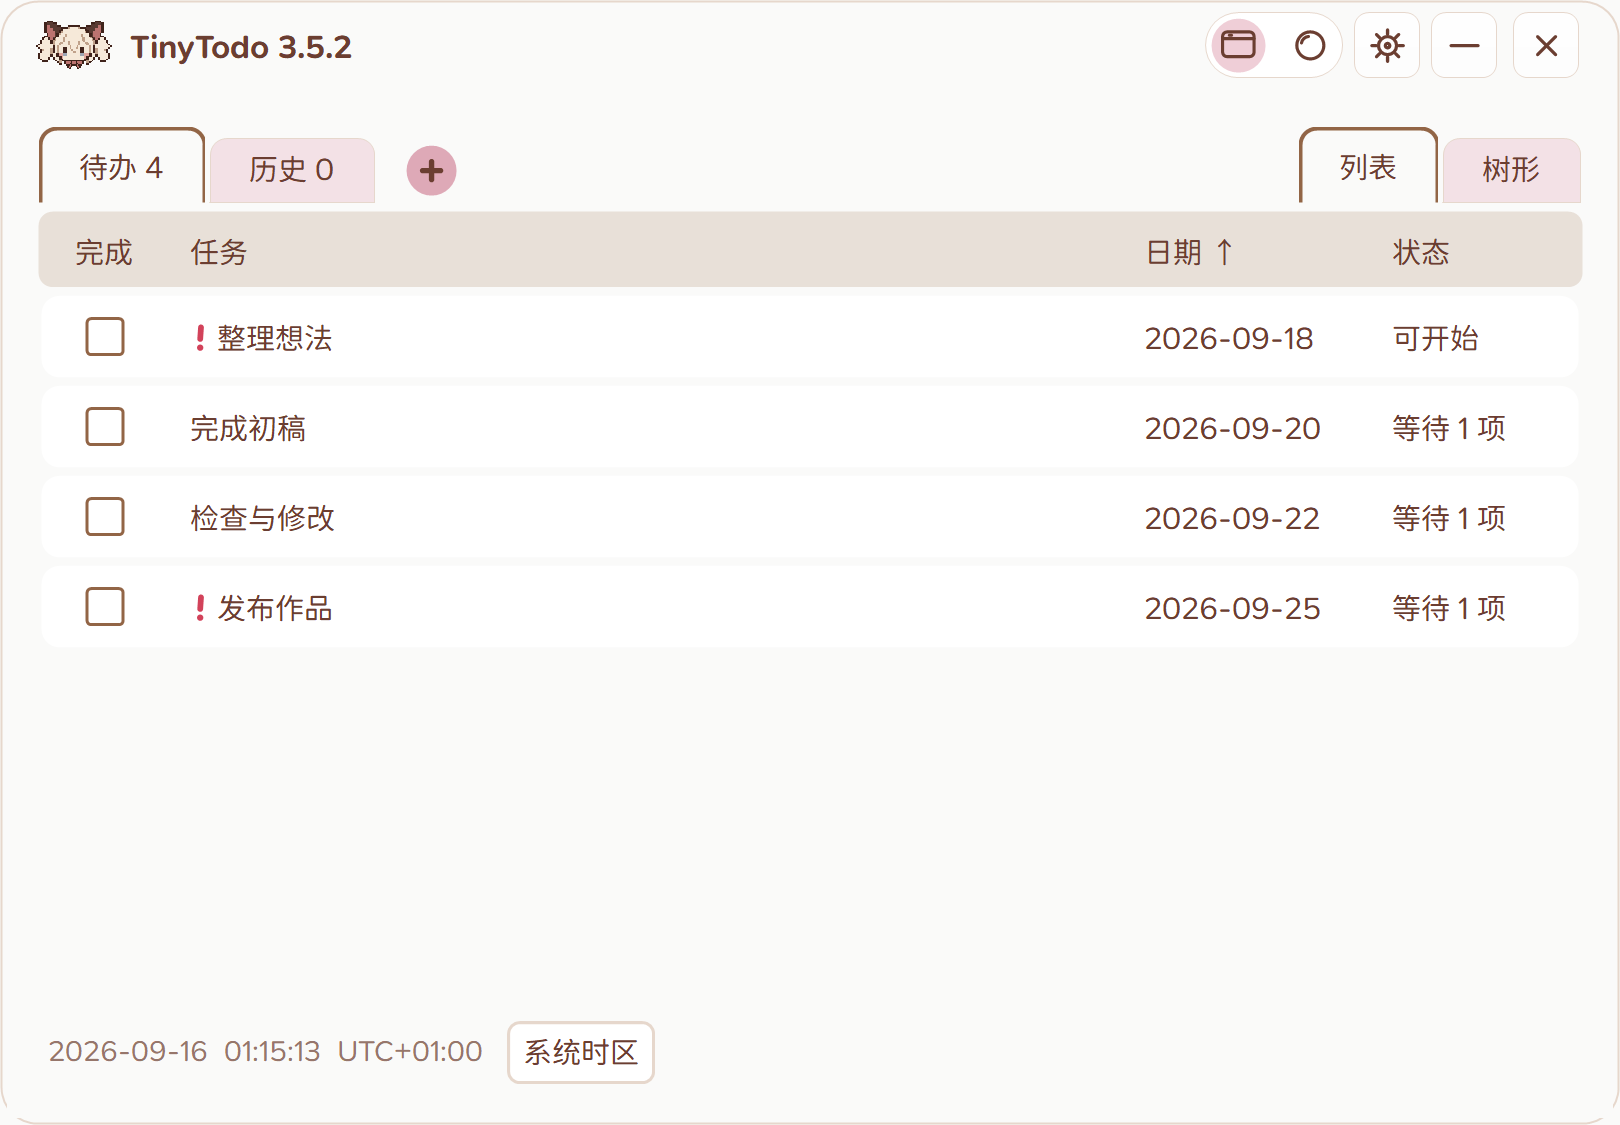
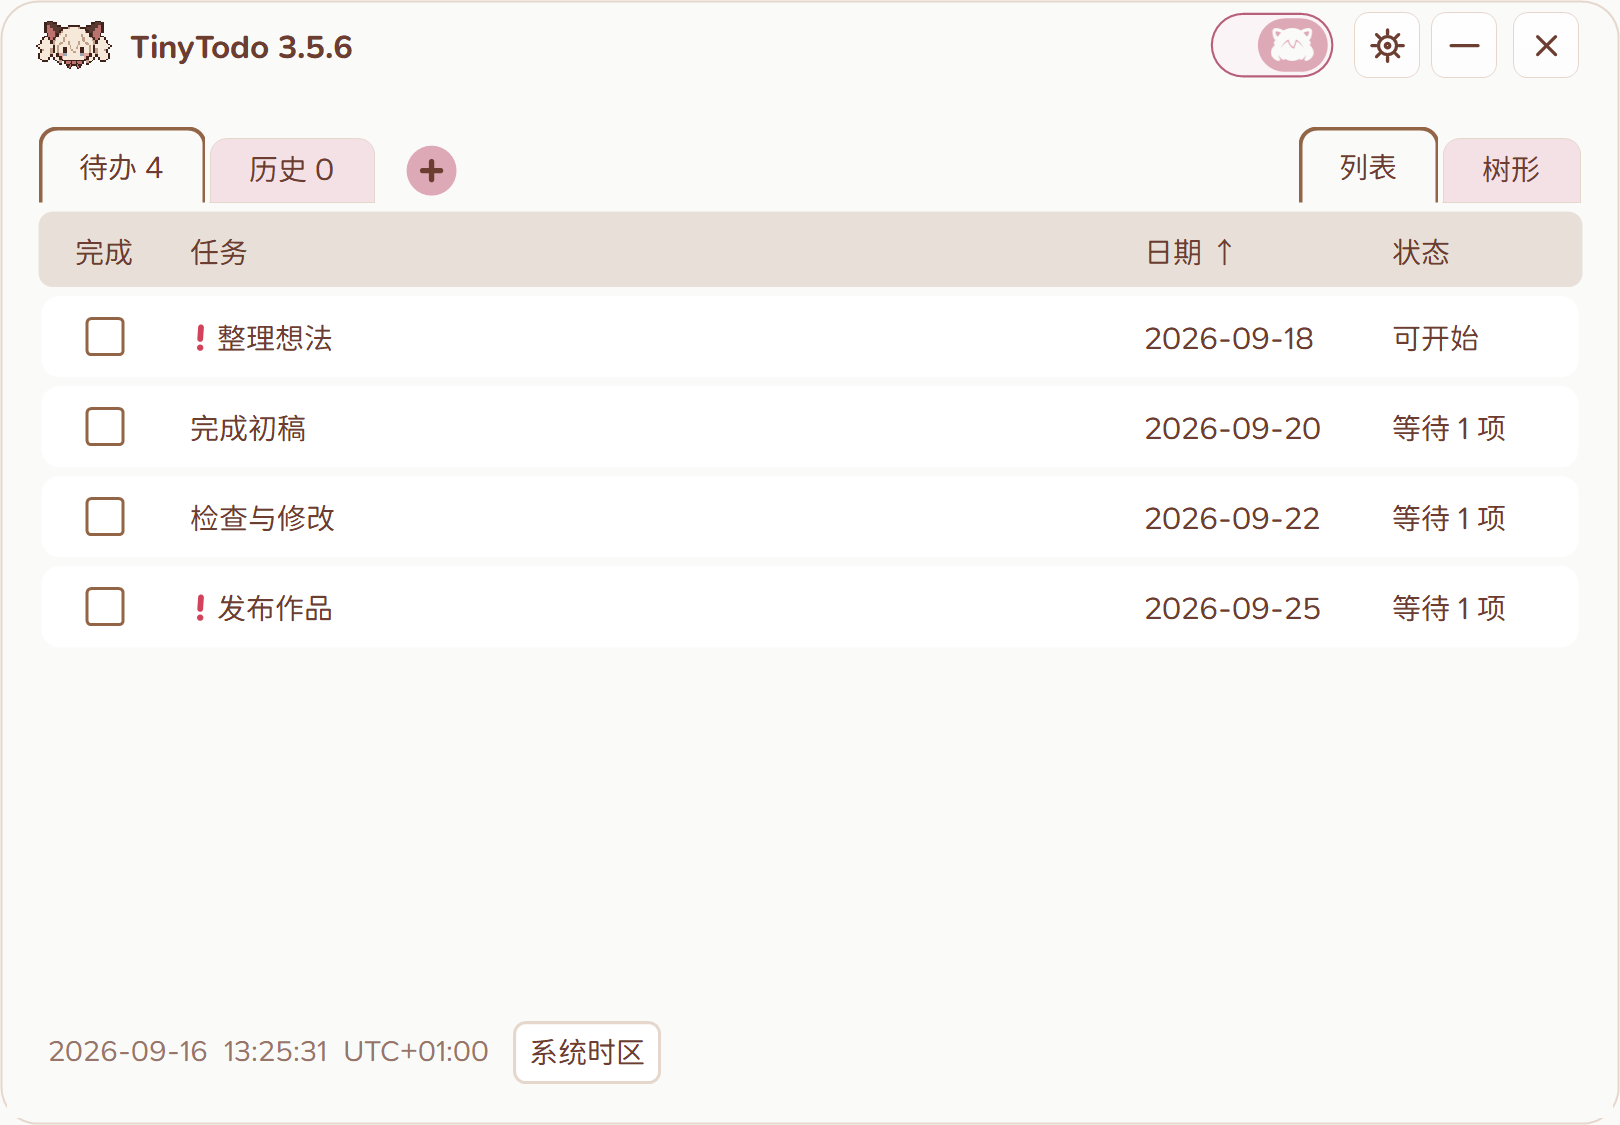
Refine animated cat toggle and release 3.5.6

Changed region(s): [[0.1235, 0.9022, 0.4321, 0.9644], [0.7407, 0.0, 0.8333, 0.0933], [0.1852, 0.0311, 0.216, 0.0622]]

diff --git a/src/Widgets.cs b/src/Widgets.cs
@@ -362,8 +362,59 @@ namespace TinyTodo
 {
     internal sealed class FloatingSwitch : Control
     {
-        internal bool IsFloating; internal Action<bool> Changed; private bool pressed;
-        internal FloatingSwitch() { DoubleBuffered = true; Size = new Size(Ui.U(90), Ui.U(30)); BackColor = Theme.Chrome; TabStop = true; Cursor = Cursors.Hand; }
+        internal Action<bool> Changed;
+        private bool pressed, isFloating;
+        private float progress, transitionFrom;
+        private readonly System.Diagnostics.Stopwatch transitionClock = new System.Diagnostics.Stopwatch();
+        private Timer transitionTimer;
+        private readonly Bitmap catIcon;
+        internal bool IsFloating
+        {
+            get { return isFloating; }
+            set
+            {
+                if (isFloating == value) return;
+                AdvanceTransition(); isFloating = value;
+                if (IsHandleCreated && Visible && Enabled && transitionTimer != null)
+                {
+                    transitionFrom = progress; transitionClock.Restart(); transitionTimer.Start();
+                }
+                else FinishTransition();
+                Invalidate();
+            }
+        }
+        internal FloatingSwitch()
+        {
+            DoubleBuffered = true; Size = new Size(Ui.U(56), Ui.U(30)); BackColor = Theme.Chrome; TabStop = true; Cursor = Cursors.Hand;
+            string iconPath = Theme.Asset("cat-toggle.png");
+            if (System.IO.File.Exists(iconPath))
+                using (var source = Image.FromFile(iconPath)) catIcon = Theme.FitIcon(source, Ui.U(19), InterpolationMode.HighQualityBicubic, 8);
+            transitionTimer = new Timer { Interval = 15 };
+            transitionTimer.Tick += delegate { AdvanceTransition(); Invalidate(); };
+        }
+        private void AdvanceTransition()
+        {
+            if (transitionTimer == null || !transitionTimer.Enabled) return;
+            float elapsed = Math.Min(1F, transitionClock.ElapsedMilliseconds / 180F);
+            float eased = 1F - (float)Math.Pow(1F - elapsed, 3);
+            progress = transitionFrom + ((isFloating ? 1F : 0F) - transitionFrom) * eased;
+            if (elapsed >= 1F) FinishTransition();
+        }
+        private void FinishTransition()
+        {
+            if (transitionTimer != null) transitionTimer.Stop();
+            transitionClock.Reset(); progress = isFloating ? 1F : 0F;
+        }
+        protected override void OnVisibleChanged(EventArgs e)
+        { if (!Visible) FinishTransition(); base.OnVisibleChanged(e); }
+        protected override void OnEnabledChanged(EventArgs e)
+        { if (!Enabled) FinishTransition(); Invalidate(); base.OnEnabledChanged(e); }
+        protected override void Dispose(bool disposing)
+        {
+            if (disposing && transitionTimer != null) { transitionTimer.Dispose(); transitionTimer = null; }
+            if (disposing && catIcon != null) catIcon.Dispose();
+            base.Dispose(disposing);
+        }
         internal void Choose(bool value) { if (value != IsFloating && Changed != null) Changed(value); }
         protected override void OnMouseDown(MouseEventArgs e) { pressed = e.Button == MouseButtons.Left; Invalidate(); base.OnMouseDown(e); }
         protected override void OnMouseUp(MouseEventArgs e) { bool choose = pressed && ClientRectangle.Contains(e.Location); pressed = false; Invalidate(); base.OnMouseUp(e); if (choose) Choose(!IsFloating); }
@@ -374,11 +425,42 @@ namespace TinyTodo
         protected override void OnPaint(PaintEventArgs e)
         {
             var g = e.Graphics; g.Clear(Theme.Canvas); g.SmoothingMode = SmoothingMode.AntiAlias;
-            using (var path = Theme.Rounded(new RectangleF(1, 1, Width - 3, Height - 3), Height / 2F))
-            using (var b = new SolidBrush(Theme.Chrome)) using (var p = new Pen(pressed ? Theme.Rose : Theme.Border, pressed ? Ui.U(2) : 1)) { g.FillPath(b, path); g.DrawPath(p, path); }
-            using (var font = Theme.Font(9F, FontStyle.Regular, "收起猫猫"))
-                TextRenderer.DrawText(g, IsFloating ? "收起猫猫" : "召唤猫猫", font, ClientRectangle, Enabled ? Theme.Ink : Theme.Muted,
-                    TextFormatFlags.HorizontalCenter | TextFormatFlags.VerticalCenter | TextFormatFlags.NoPadding);
+            Color outline = Theme.Mix(Theme.Rose, Theme.Border, progress);
+            Color track = Theme.Mix(Theme.RoseSoft, Theme.Chrome, progress * .22F);
+            Color thumb = Theme.Mix(Theme.AddAction, Theme.HeaderTint, progress);
+            if (!Enabled) { outline = Theme.Border; track = Theme.Chrome; thumb = Theme.Done; }
+            var trackBounds = new RectangleF(Ui.Scale, Ui.Scale, Width - Ui.Scale * 2 - 1, Height - Ui.Scale * 2 - 1);
+            using (var path = Theme.Rounded(trackBounds, Height / 2F))
+            using (var brush = new SolidBrush(track))
+            using (var pen = new Pen(pressed ? Theme.Rose : outline, pressed ? Ui.U(2) : 1F + progress * Ui.Scale * .5F))
+            { g.FillPath(brush, path); g.DrawPath(pen, path); }
+            // Inset the unchanged track uniformly so both capsule ends share their arc centers.
+            float inset = Ui.Scale * 2F, knobWidth = Ui.U(31);
+            float knobHeight = trackBounds.Height - inset * 2F;
+            float left = trackBounds.Left + inset + (trackBounds.Width - knobWidth - inset * 2F) * progress;
+            var knob = new RectangleF(left, trackBounds.Top + inset, knobWidth, knobHeight);
+            using (var path = Theme.Rounded(knob, knob.Height / 2F))
+            using (var brush = new SolidBrush(thumb)) g.FillPath(brush, path);
+            float icon = Ui.U(19);
+            DrawCatIcon(g, new RectangleF(knob.X + (knob.Width - icon) / 2F, knob.Y + (knob.Height - icon) / 2F, icon, icon));
+        }
+        private void DrawCatIcon(Graphics g, RectangleF bounds)
+        {
+            if (catIcon == null) return;
+            // Keep the supplied alpha silhouette; blend its brown into the canvas color when active.
+            using (var attributes = new System.Drawing.Imaging.ImageAttributes())
+            {
+                var matrix = new System.Drawing.Imaging.ColorMatrix();
+                float active = Enabled ? progress : 0F;
+                matrix.Matrix00 = matrix.Matrix11 = matrix.Matrix22 = 1F - active;
+                matrix.Matrix40 = Theme.Canvas.R / 255F * active;
+                matrix.Matrix41 = Theme.Canvas.G / 255F * active;
+                matrix.Matrix42 = Theme.Canvas.B / 255F * active;
+                matrix.Matrix33 = Enabled ? .64F + progress * .36F : .32F;
+                attributes.SetColorMatrix(matrix);
+                var target = new PointF[] { new PointF(bounds.Left, bounds.Top), new PointF(bounds.Right, bounds.Top), new PointF(bounds.Left, bounds.Bottom) };
+                g.DrawImage(catIcon, target, new RectangleF(0, 0, catIcon.Width, catIcon.Height), GraphicsUnit.Pixel, attributes);
+            }
         }
     }
 }

diff --git a/tools/CaptureDocs.cs b/tools/CaptureDocs.cs
@@ -15,16 +15,33 @@ internal static class CaptureDocs
         using (var bitmap = new Bitmap(form.Width, form.Height))
         { form.DrawToBitmap(bitmap, form.ClientRectangle); bitmap.Save(Path.Combine("docs/screenshots", name + ".png")); }
     }
+    private static void SaveCatToggle()
+    {
+        using (var canvas = new Bitmap(Ui.U(172), Ui.U(54)))
+        using (var g = Graphics.FromImage(canvas))
+        {
+            g.Clear(Theme.Canvas);
+            for (int i = 0; i < 2; i++)
+                using (var toggle = new FloatingSwitch())
+                {
+                    toggle.IsFloating = i == 1; toggle.CreateControl();
+                    using (var bitmap = new Bitmap(toggle.Width, toggle.Height))
+                    { toggle.DrawToBitmap(bitmap, toggle.ClientRectangle); g.DrawImageUnscaled(bitmap, Ui.U(12 + i * 86), Ui.U(12)); }
+                }
+            canvas.Save("docs/screenshots/cat-toggle.png");
+        }
+    }
     [STAThread] private static void Main()
     {
         Application.EnableVisualStyles(); Application.SetCompatibleTextRenderingDefault(false);
+        SaveCatToggle();
         string root = Path.GetFullPath("artifacts/docs-demo"); Directory.CreateDirectory(root);
         var store = new Store(Path.Combine(root, "tasks.json")); store.Load();
         var research = new Todo { Name = "整理想法", Due = "2026-09-18", Important = true, Description = "# 一个小计划\n\n- 记录灵感\n- 整理资料\n- 给每一步留一点时间" };
         var draft = new Todo { Name = "完成初稿", Due = "2026-09-20", Description = "## 今天的小目标\n\n先把想法写下来，再慢慢打磨。\n\n- [x] 整理大纲\n- [ ] 补充内容\n\n**一步一步来。**" }; draft.Prerequisites.Add(research.Id);
         var review = new Todo { Name = "检查与修改", Due = "2026-09-22" }; review.Prerequisites.Add(draft.Id);
         var publish = new Todo { Name = "发布作品", Due = "2026-09-25", Important = true }; publish.Prerequisites.Add(review.Id);
-        store.Change(s => { s.Tasks.Clear(); s.Tasks.AddRange(new[] { research, draft, review, publish }); s.Window.Floating = false; });
+        store.Change(s => { s.Tasks.Clear(); s.Tasks.AddRange(new[] { research, draft, review, publish }); s.Window = new Settings { CatMode = CatVisibilityMode.Always }; });
         using (var main = new MainForm(store, new DataLocations(root)))
         {
             main.Show(); Save(main, "tasks");

diff --git a/src/Chrome.cs b/src/Chrome.cs
@@ -17,7 +17,7 @@ namespace TinyTodo
         internal IconButton AddCaptionAction(Glyph glyph, string name, EventHandler click)
         { var b = new IconButton(glyph) { AccessibleName = name }; b.Click += click; captionTips.SetToolTip(b, name); captionActions.Add(b); Controls.Add(b); PerformLayout(); return b; }
         internal FloatingSwitch AddFloatingSwitch(Action<bool> changed)
-        { var b = new FloatingSwitch { AccessibleName = "收起猫猫" }; b.Changed = changed; captionActions.Add(b); Controls.Add(b); PerformLayout(); return b; }
+        { var b = new FloatingSwitch { AccessibleName = "收起猫猫" }; b.Changed = changed; captionTips.SetToolTip(b, b.AccessibleName); b.TextChanged += delegate { captionTips.SetToolTip(b, b.Text); }; captionActions.Add(b); Controls.Add(b); PerformLayout(); return b; }
         internal bool CanResize = true;
         internal int CaptionHeight { get { return Ui.U(40); } }
         [DllImport("user32.dll")] private static extern bool ReleaseCapture();
@@ -43,7 +43,14 @@ namespace TinyTodo
             minimizeButton.SetBounds(closeButton.Left - side - Ui.U(6), y, side, side);
             minimizeButton.Visible = MinimizeBox; closeButton.BringToFront(); minimizeButton.BringToFront();
             int next = MinimizeBox ? minimizeButton.Left : closeButton.Left;
-            for (int i = captionActions.Count - 1; i >= 0; i--) { int w = captionActions[i] is FloatingSwitch ? Ui.U(90) : side; next -= w + Ui.U(4); captionActions[i].SetBounds(next, y, w, side); captionActions[i].BringToFront(); }
+            for (int i = captionActions.Count - 1; i >= 0; i--)
+            {
+                bool catToggle = captionActions[i] is FloatingSwitch;
+                int w = catToggle ? Ui.U(56) : side;
+                int gap = catToggle ? (int)Math.Round(Ui.U(4) * 2F) : Ui.U(4);
+                next -= w + gap;
+                captionActions[i].SetBounds(next, y, w, side); captionActions[i].BringToFront();
+            }
             int size = Ui.U(18);
             for (int i = 0; i < grips.Count; i++) { grips[i].SetBounds(i % 2 == 0 ? 0 : Width - size, i < 2 ? 0 : Height - size, size, size); grips[i].Visible = CanResize; grips[i].BringToFront(); }
         }

diff --git a/tests/UiTests.cs b/tests/UiTests.cs
@@ -101,6 +101,7 @@ internal static class UiTests
             using (var table = new TaskTable { Dock = DockStyle.Fill })
             {
                 host.ClientSize = new Size(Ui.U(520), Ui.U(380)); host.Controls.Add(table);
+                host.StartPosition = FormStartPosition.Manual; host.Location = Screen.PrimaryScreen.WorkingArea.Location; Ui.Fit(host);
                 var task = new Todo { Name = "保持悬停", Description = "# Markdown\n\n鼠标停在任务上时保持可见。" };
                 var state = new State(); state.Tasks.Add(task); table.ShowTasks(state, state.Tasks, false);
                 host.Show(); host.Activate(); Application.DoEvents();
@@ -122,6 +123,7 @@ internal static class UiTests
             using (var graph = new TaskGraph { Dock = DockStyle.Fill })
             {
                 host.ClientSize = new Size(Ui.U(520), Ui.U(380)); host.Controls.Add(graph);
+                host.StartPosition = FormStartPosition.Manual; host.Location = Screen.PrimaryScreen.WorkingArea.Location; Ui.Fit(host);
                 var task = new Todo { Name = "树节点悬停", Description = "**预览不会一闪而过。**" };
                 var state = new State(); state.Tasks.Add(task);
                 host.Show(); host.Activate(); graph.ShowTasks(state, true, task.Id, true); Application.DoEvents();
@@ -344,7 +346,8 @@ internal static class UiTests
         using (var main = new MainForm(store, new DataLocations(Path.GetDirectoryName(store.PathName))))
         {
             main.Show(); Application.DoEvents();
-            Descendants(main).OfType<FloatingSwitch>().Single().Choose(true); Application.DoEvents();
+            // Exercise the default fullscreen policy without creating a manual summon override.
+            main.UpdateDesktopVisibility(false); Application.DoEvents();
             var bubble = (FloatingIcon)typeof(MainForm).GetField("bubble", BindingFlags.Instance | BindingFlags.NonPublic).GetValue(main);
             main.Hide(); main.ToggleFromBubble(); Application.DoEvents();
             Assert(main.Visible && main.WindowState == FormWindowState.Normal, "bubble restores hidden main window");

diff --git a/src/App.cs b/src/App.cs
@@ -248,7 +248,7 @@ namespace TinyTodo
         public MainForm(Store store, DataLocations locations)
         {
             this.store = store;
-            Ui.Setup(this, "TinyTodo 3.5.5", 720, 500);
+            Ui.Setup(this, "TinyTodo 3.5.6", 720, 500);
             StartPosition = FormStartPosition.Manual;
             appIcon = MakeIcon(); Icon = appIcon;
             var root = Ui.Root(Ui.Auto(), Ui.Fill(), Ui.Auto());
@@ -306,7 +306,7 @@ namespace TinyTodo
             menu.Closed += delegate { desktopMenuOpen = false; };
             // The tray release must finish before the popup takes foreground ownership.
             trayIcon = MakeTrayIcon();
-            tray = new NotifyIcon { Icon = trayIcon, Text = "TinyTodo 3.5.5", Visible = true };
+            tray = new NotifyIcon { Icon = trayIcon, Text = "TinyTodo 3.5.6", Visible = true };
             tray.MouseUp += delegate(object sender, MouseEventArgs e) { if (e.Button == MouseButtons.Right) QueueTrayMenu(Cursor.Position); };
             tray.MouseClick += delegate(object sender, MouseEventArgs e) { if (e.Button == MouseButtons.Left) ShowMain(); };
             bubble = new FloatingIcon(ToggleFromBubble, SaveIconPosition, menu);
@@ -523,7 +523,7 @@ namespace TinyTodo
             currentButton.Text = "待办 " + s.Tasks.Count(t => !t.Done); historyButton.Text = "历史 " + s.Tasks.Count(t => t.Done);
             ((SoftButton)currentButton).SelectedTab = !history; currentButton.Invalidate();
             ((SoftButton)historyButton).SelectedTab = history; historyButton.Invalidate();
-            Text = history ? "TinyTodo 3.5 · 历史" : "TinyTodo 3.5.5";
+            Text = history ? "TinyTodo 3.5 · 历史" : "TinyTodo 3.5.6";
         }
         private bool Change(Action<State> action)
         { try { store.Change(action); Render(); return true; } catch (Exception ex) { Error(ex); return false; } }

diff --git a/src/Theme.cs b/src/Theme.cs
@@ -189,7 +189,7 @@ namespace TinyTodo
         }
         private static Image LoadIcon(string name, int size)
         { using (var source = Image.FromFile(Asset(name))) return FitIcon(source, size); }
-        internal static Bitmap FitIcon(Image source, int size)
+        internal static Bitmap FitIcon(Image source, int size, InterpolationMode interpolation = InterpolationMode.NearestNeighbor, byte minimumAlpha = 1)
         {
             using (var bitmap = new Bitmap(source))
             {
@@ -204,8 +204,9 @@ namespace TinyTodo
                         Marshal.Copy(IntPtr.Add(data.Scan0, y * data.Stride), row, 0, row.Length);
                         for (int x = 0; x < bitmap.Width; x++)
                         {
-                            // Keep every visible source pixel; remove only fully transparent margins.
-                            if (row[x * 4 + 3] == 0) continue;
+                            // By default preserve all nontransparent pixels. A supplied threshold
+                            // can exclude nearly invisible export residue from layout bounds.
+                            if (row[x * 4 + 3] < minimumAlpha) continue;
                             left = Math.Min(left, x); top = Math.Min(top, y); right = Math.Max(right, x); bottom = Math.Max(bottom, y);
                         }
                     }
@@ -220,7 +221,7 @@ namespace TinyTodo
                     content.Width * factor, content.Height * factor);
                 using (var g = Graphics.FromImage(result))
                 {
-                    g.InterpolationMode = InterpolationMode.NearestNeighbor;
+                    g.InterpolationMode = interpolation;
                     g.PixelOffsetMode = PixelOffsetMode.HighQuality;
                     g.DrawImage(bitmap, target, content, GraphicsUnit.Pixel);
                 }

diff --git a/src/SettingsViews.cs b/src/SettingsViews.cs
@@ -164,7 +164,7 @@ namespace TinyTodo
                         string[] files = {
                             "src/TaskControls.cs", "src/App.cs", "src/Model.cs", "src/TaskViews.cs", "src/DataLocations.cs", "src/SettingsViews.cs",
                             "src/MarkdownEditor.cs", "src/Widgets.cs", "src/Chrome.cs", "src/Theme.cs", "src/Markdown.cs", "src/Presentation.cs",
-                            "assets/app-icon.png", "assets/floating-icon.png", "assets/floating-icon.gif", "assets/app.ico", "assets/WenYuanRoundedSC-Regular.ttf", "assets/WenYuanRoundedSC-Bold.ttf", "assets/Font-coverage.txt", "assets/Font-source-notice.txt", "assets/Font-license.txt",
+                            "assets/app-icon.png", "assets/floating-icon.png", "assets/floating-icon.gif", "assets/cat-toggle.png", "assets/app.ico", "assets/WenYuanRoundedSC-Regular.ttf", "assets/WenYuanRoundedSC-Bold.ttf", "assets/Font-coverage.txt", "assets/Font-source-notice.txt", "assets/Font-license.txt",
                             "tests/CoreTests.cs", "tests/UiTests.cs", "bin/TinyTodo.exe", "bin/TinyTodo.Tests.exe", "bin/TinyTodo.UiTests.exe", "bin/version.txt",
                             "app.manifest", "build.cmd", "start.cmd", "test.cmd", "ui-test.cmd", "uninstall.cmd",
                             "README.md", "START-HERE.txt", "VALIDATION.txt", "UPGRADE.txt", "DESIGN.md", ".tinytodo-app"

diff --git a/docs/BUILD.md b/docs/BUILD.md
@@ -53,3 +53,20 @@ Windows 10/11，.NET Framework 4.x。
 Windows 行为参考：[SetWindowPos 的不激活选项](https://learn.microsoft.com/en-us/windows/win32/api/winuser/nf-winuser-setwindowpos)、[DWM 可见窗口边界](https://learn.microsoft.com/en-us/windows/win32/api/dwmapi/ne-dwmapi-dwmwindowattribute)。UI 测试会先点击其自身已验证的测试窗口，取得测试所需的前台权限；生产程序没有模拟输入、全局快捷键或键盘钩子。
 
 最终安装包已隔离验证 3.5.4 → 3.5.5 覆盖升级；默认自启动与桌面快捷方式正常，已登记的 4 个数据文件 SHA256 完全一致，用户原安装登记未改动。
+
+
+## 3.5.6 猫猫开关
+
+主页使用胶囊开关，滑块沿轨道内缘等距移动，约 180 毫秒完成滑动与颜色过渡；快速切换从当前位置折返，隐藏或销毁控件时停止动画。右侧间距为原来的两倍。
+
+- 开启：滑块与新增任务按钮共用 `Theme.AddAction`（`#DEA9B7`），图标使用主页背景色 `#FAFAF9`。
+- 关闭：米灰色滑块与棕色图标；黑名单生效时禁用。
+- 使用用户最终确认的 PNG，原图保存在 `assets/source/cat-toggle-original.png`，运行资源为 `assets/cat-toggle.png`。仅图标排版忽略透明导出噪点，不改写原图。
+
+![猫猫开关：左关右开](screenshots/cat-toggle.png)
+
+`tools/CaptureDocs.cs` 使用独立演示数据生成列表、树视图与开关截图。最终版本通过 93 项业务检查和 379 项 UI 检查（225% 缩放），包含任务编辑、完成反馈、Markdown 悬停、托盘、悬浮设置、黑名单、窗口恢复和输入隔离。悬停测试固定窗口在屏幕内，避免系统级联放置影响鼠标命中。
+
+根目录的草稿图和旧版构建移入本地忽略目录 `archive/pre-3.5.6`，不进入发布包；最终素材、源码、验证脚本与截图保留在仓库。
+
+最终安装包已隔离验证 3.5.5 → 3.5.6 覆盖升级；默认自启动及桌面快捷方式正常，已登记的 4 个任务／配置文件 SHA256 完全一致，原安装登记未改变。便携包的程序、最终图标、字体与许可证均已校验。

diff --git a/README.md b/README.md
@@ -10,7 +10,9 @@
 
 ![任务依赖](docs/screenshots/tree.png)
 
-透明动态悬浮入口，记住窗口位置；三种显示规则，支持程序黑名单。
+猫猫开关与透明动态悬浮入口，记住窗口位置，支持全屏隐藏和程序黑名单。
+
+![猫猫开关](docs/screenshots/cat-toggle.png)
 
 ![悬浮动画](assets/floating-icon.gif)
 
